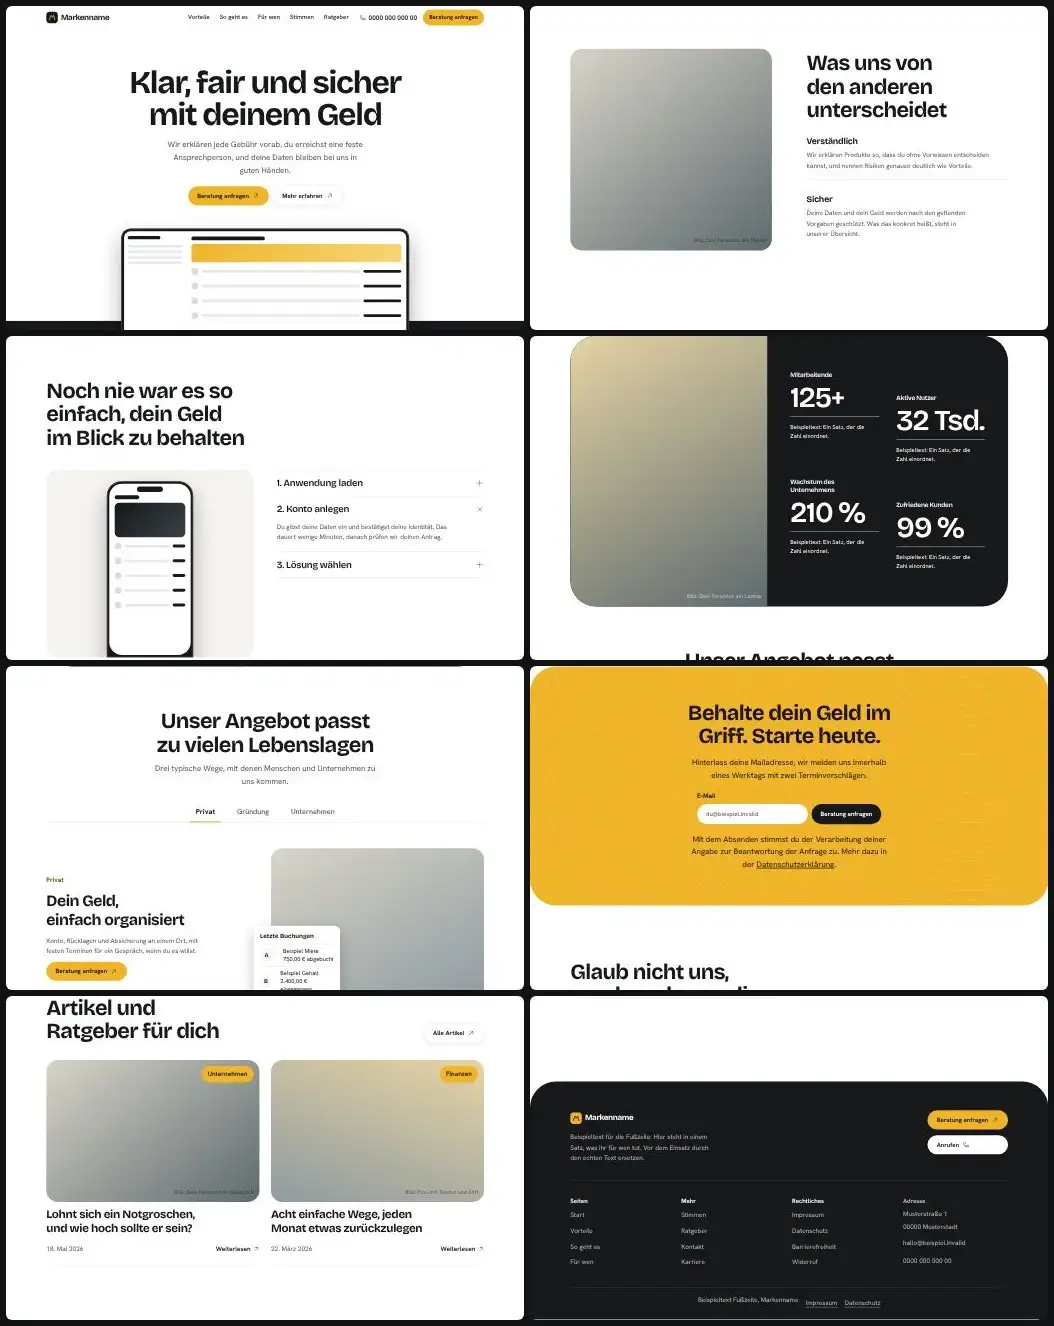
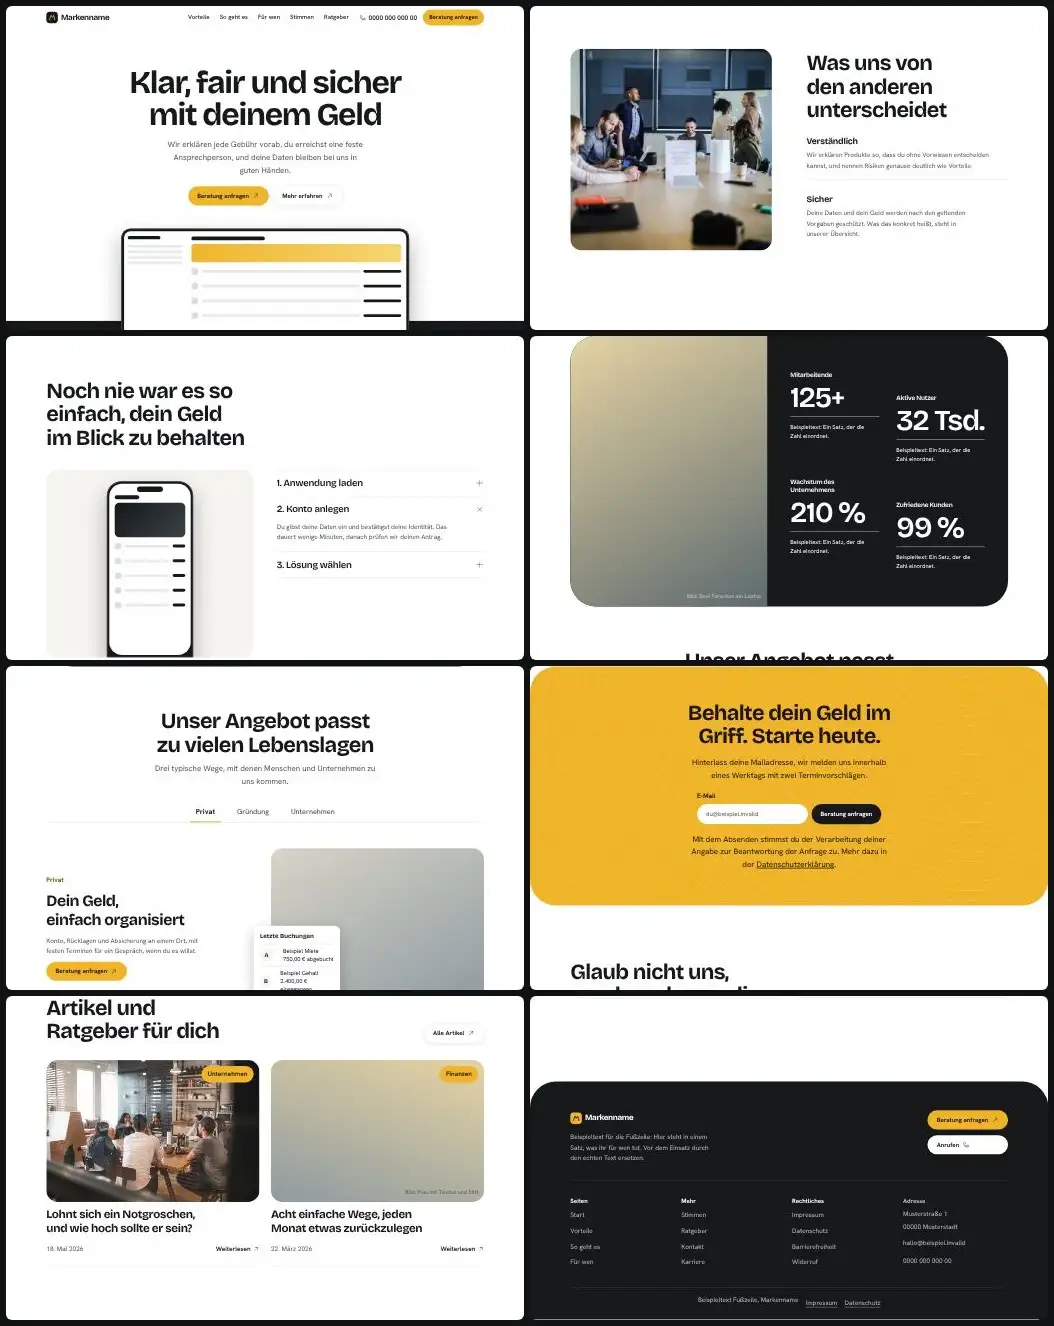
Bibliothek t53: Beispielfotos (Unsplash) eingebaut, Vorschaubilder neu erzeugt
Claude-Session: https://claude.ai/code/session_01DoGuL1bwF3ewggMgZ4Cpvd

Changed region(s): [[0.5161, 0.0309, 0.759, 0.2164], [0.0304, 0.773, 0.2429, 0.9276]]

diff --git a/skills/webdesign-conversion/assets/vorlagen/bibliothek/t53/v2.html b/skills/webdesign-conversion/assets/vorlagen/bibliothek/t53/v2.html
@@ -98,7 +98,7 @@
         <p data-zeig>Wir erklären Produkte so, dass du ohne Vorwissen entscheiden kannst, nennen Risiken genauso deutlich wie Vorteile und schützen deine Daten nach den geltenden Vorgaben.</p>
         <div class="vertrauen2" data-zeig><p>Vertraut von Unternehmen in der ganzen Region</p><div class="logoraster" data-beispiel><span class="beispiellogo logo-nordwerk" role="img" aria-label="Nordwerk (Beispiel)"></span><span class="beispiellogo logo-lichtbau" role="img" aria-label="Lichtbau (Beispiel)"></span><span class="beispiellogo logo-talgrund" role="img" aria-label="Talgrund (Beispiel)"></span><span class="beispiellogo logo-kronwerk" role="img" aria-label="Kronwerk (Beispiel)"></span><span class="beispiellogo logo-sonnenfeld" role="img" aria-label="Sonnenfeld (Beispiel)"></span><span class="beispiellogo logo-mareal" role="img" aria-label="Mareal (Beispiel)"></span></div></div>
       </div>
-      <div class="bild abgrenz2__bild" data-zeig="rechts" data-platzhalter="Bild: Drei Personen am Papier" role="img" aria-label="Platzhalter für ein Foto dreier Personen bei einer Besprechung"></div>
+      <div class="bild abgrenz2__bild" data-zeig="rechts"><img src="bilder/besprechung-am-tisch.webp" width="1600" height="1066" alt="Mehrere Personen sitzen und stehen an einem Besprechungstisch" loading="lazy" decoding="async"></div>
     </div>
   </section>
 
@@ -133,9 +133,9 @@
     <div class="wrap">
       <div class="zielgruppen__kopf" data-zeig><h2 id="h-zielgruppen">Unser Angebot passt zu vielen Lebenslagen</h2><p>Drei typische Wege, mit denen Menschen und Unternehmen zu uns kommen.</p></div>
       <div data-tafeln>
-        <article class="fall" id="f1" role="tabpanel" aria-labelledby="pk1"><div class="bild fall__bild" data-platzhalter="Bild: Berater im Gespräch" role="img" aria-label="Platzhalter für ein Foto einer beratenden Person"></div><div class="fall__karte"><span class="etikett">Privat</span><h3>Dein Geld, einfach organisiert</h3><p>Konto, Rücklagen und Absicherung an einem Ort, mit festen Terminen für ein Gespräch, wenn du es willst.</p><a class="knopf" href="#kontakt">Beratung anfragen<svg aria-hidden="true" focusable="false"><use href="#i-arrow-up-right"/></svg></a></div></article>
+        <article class="fall" id="f1" role="tabpanel" aria-labelledby="pk1"><div class="bild fall__bild"><img src="bilder/gespraech-im-cafe.webp" width="1000" height="563" alt="Gruppe im Gespräch an einem langen Tisch in hellem Raum" loading="lazy" decoding="async"></div><div class="fall__karte"><span class="etikett">Privat</span><h3>Dein Geld, einfach organisiert</h3><p>Konto, Rücklagen und Absicherung an einem Ort, mit festen Terminen für ein Gespräch, wenn du es willst.</p><a class="knopf" href="#kontakt">Beratung anfragen<svg aria-hidden="true" focusable="false"><use href="#i-arrow-up-right"/></svg></a></div></article>
         <article class="fall" id="f2" role="tabpanel" aria-labelledby="pk2"><div class="bild fall__bild" data-platzhalter="Bild: Gründer mit verschränkten Armen" role="img" aria-label="Platzhalter für ein Foto eines Gründers"></div><div class="fall__karte"><span class="etikett">Gründung</span><h3>Ein flexibler Start für dein Vorhaben</h3><p>Wir besprechen mit dir, was du für den Anfang brauchst, und zeigen dir Finanzierungswege mit ihren Bedingungen.</p><a class="knopf" href="#kontakt">Beratung anfragen<svg aria-hidden="true" focusable="false"><use href="#i-arrow-up-right"/></svg></a></div></article>
-        <article class="fall" id="f3" role="tabpanel" aria-labelledby="pk3"><div class="bild fall__bild" data-platzhalter="Bild: Team am Besprechungstisch" role="img" aria-label="Platzhalter für ein Foto eines Teams"></div><div class="fall__karte"><span class="etikett">Unternehmen</span><h3>Struktur für wachsende Betriebe</h3><p>Mehrere Konten, klare Rollen und Auswertungen, die deine Buchhaltung weiterverwenden kann.</p><a class="knopf" href="#kontakt">Beratung anfragen<svg aria-hidden="true" focusable="false"><use href="#i-arrow-up-right"/></svg></a></div></article>
+        <article class="fall" id="f3" role="tabpanel" aria-labelledby="pk3"><div class="bild fall__bild"><img src="bilder/besprechungsraum-laptops.webp" width="1600" height="1061" alt="Menschen mit Laptops an einem runden Tisch im Besprechungsraum" loading="lazy" decoding="async"></div><div class="fall__karte"><span class="etikett">Unternehmen</span><h3>Struktur für wachsende Betriebe</h3><p>Mehrere Konten, klare Rollen und Auswertungen, die deine Buchhaltung weiterverwenden kann.</p><a class="knopf" href="#kontakt">Beratung anfragen<svg aria-hidden="true" focusable="false"><use href="#i-arrow-up-right"/></svg></a></div></article>
       </div>
       <div class="punkte" role="tablist" aria-label="Zielgruppe wählen" data-reiter>
         <button type="button" role="tab" id="pk1" aria-controls="f1" aria-selected="true"><span class="sr-nur">Privat</span></button>
@@ -179,7 +179,7 @@
   <section class="sektion ratgeber" id="ratgeber" aria-labelledby="h-ratgeber" style="padding-top:0">
     <div class="wrap">
       <div class="beitraege__kopf" data-zeig><h2 id="h-ratgeber">Artikel und Ratgeber für dich</h2><a class="knopf knopf--hell" href="#ratgeber">Alle Artikel<svg aria-hidden="true" focusable="false"><use href="#i-arrow-up-right"/></svg></a></div>
-      <article class="beitrag2" data-zeig><div class="bild beitrag2__bild" data-platzhalter="Bild: Zwei Personen im Gespräch" role="img" aria-label="Platzhalter für ein Foto zweier Personen im Gespräch"></div><div class="beitrag2__text"><p class="beitrag2__meta"><span>Unternehmen</span><span>18. Mai 2026</span></p><h3>Lohnt sich ein Notgroschen, und wie hoch sollte er sein?</h3><p>Ein Beispieltext, der den Beitrag in zwei Zeilen anreißt und neugierig macht, ohne mehr zu versprechen, als der Artikel hält.</p><a class="weiterlink" href="#ratgeber">Weiterlesen<svg aria-hidden="true" focusable="false"><use href="#i-arrow-up-right"/></svg></a></div></article>
+      <article class="beitrag2" data-zeig><div class="bild beitrag2__bild"><img src="bilder/gespraech-im-cafe.webp" width="1000" height="563" alt="Gruppe im Gespräch an einem langen Tisch in hellem Raum" loading="lazy" decoding="async"></div><div class="beitrag2__text"><p class="beitrag2__meta"><span>Unternehmen</span><span>18. Mai 2026</span></p><h3>Lohnt sich ein Notgroschen, und wie hoch sollte er sein?</h3><p>Ein Beispieltext, der den Beitrag in zwei Zeilen anreißt und neugierig macht, ohne mehr zu versprechen, als der Artikel hält.</p><a class="weiterlink" href="#ratgeber">Weiterlesen<svg aria-hidden="true" focusable="false"><use href="#i-arrow-up-right"/></svg></a></div></article>
     </div>
   </section>
 </main>

diff --git a/skills/webdesign-conversion/assets/vorlagen/bibliothek/t53/index.html b/skills/webdesign-conversion/assets/vorlagen/bibliothek/t53/index.html
@@ -86,7 +86,7 @@
   <!-- 3. Abgrenzung: Bild links, zwei Aussagen rechts -->
   <section class="sektion abgrenzung" id="vorteile" aria-labelledby="h-abgrenzung">
     <div class="wrap abgrenzung__raster">
-      <div class="bild abgrenzung__bild" data-zeig="links" data-platzhalter="Bild: Drei Personen am Papier" role="img" aria-label="Platzhalter für ein Foto dreier Personen bei einer Besprechung"></div>
+      <div class="bild abgrenzung__bild" data-zeig="links"><img src="bilder/besprechung-am-tisch.webp" width="1600" height="1066" alt="Mehrere Personen sitzen und stehen an einem Besprechungstisch" loading="lazy" decoding="async"></div>
       <div class="abgrenzung__text" data-staffel>
         <h2 id="h-abgrenzung" data-zeig>Was uns von den anderen unterscheidet</h2>
         <div class="aussage" data-zeig><h3>Verständlich</h3><p>Wir erklären Produkte so, dass du ohne Vorwissen entscheiden kannst, und nennen Risiken genauso deutlich wie Vorteile.</p></div>
@@ -163,7 +163,7 @@
       <div data-tafeln>
         <article class="tafel" id="p1" role="tabpanel" aria-labelledby="z1"><div class="tafel__text"><span class="etikett">Privat</span><h3>Dein Geld, einfach organisiert</h3><p>Konto, Rücklagen und Absicherung an einem Ort, mit festen Terminen für ein Gespräch, wenn du es willst.</p><a class="knopf" href="#kontakt">Beratung anfragen<svg aria-hidden="true" focusable="false"><use href="#i-arrow-up-right"/></svg></a></div><div class="tafel__bild"><div class="bild" data-platzhalter="Bild: Frau am Telefon im Büro" role="img" aria-label="Platzhalter für ein Foto einer telefonierenden Frau"></div><div class="schwebe" data-beispiel><strong>Letzte Buchungen</strong><div class="posten"><b>A</b><p>Beispiel Miete<br>750,00 € abgebucht</p></div><div class="posten"><b>B</b><p>Beispiel Gehalt<br>2.400,00 € eingegangen</p></div></div></div></article>
         <article class="tafel" id="p2" role="tabpanel" aria-labelledby="z2"><div class="tafel__text"><span class="etikett">Gründung</span><h3>Ein flexibler Start für dein Vorhaben</h3><p>Wir besprechen mit dir, was du für den Anfang brauchst, und zeigen dir Finanzierungswege mit ihren Bedingungen.</p><a class="knopf" href="#kontakt">Beratung anfragen<svg aria-hidden="true" focusable="false"><use href="#i-arrow-up-right"/></svg></a></div><div class="tafel__bild"><div class="bild" data-platzhalter="Bild: Gründer im Büro, lächelnd" role="img" aria-label="Platzhalter für ein Foto eines Gründers im Büro"></div><div class="schwebe" data-beispiel><strong>Letzte Überweisungen</strong><div class="posten"><b>A</b><p>Beispiel Werbung<br>1.408,59 € abgebucht</p></div><div class="posten"><b>B</b><p>Beispiel Zahlung<br>2.512,00 € abgebucht</p></div></div></div></article>
-        <article class="tafel" id="p3" role="tabpanel" aria-labelledby="z3"><div class="tafel__text"><span class="etikett">Unternehmen</span><h3>Struktur für wachsende Betriebe</h3><p>Mehrere Konten, klare Rollen und Auswertungen, die deine Buchhaltung weiterverwenden kann.</p><a class="knopf" href="#kontakt">Beratung anfragen<svg aria-hidden="true" focusable="false"><use href="#i-arrow-up-right"/></svg></a></div><div class="tafel__bild"><div class="bild" data-platzhalter="Bild: Team am Besprechungstisch" role="img" aria-label="Platzhalter für ein Foto eines Teams am Besprechungstisch"></div><div class="schwebe" data-beispiel><strong>Rollen</strong><div class="posten"><b>A</b><p>Beispiel Buchhaltung<br>Lesen</p></div><div class="posten"><b>B</b><p>Beispiel Leitung<br>Freigeben</p></div></div></div></article>
+        <article class="tafel" id="p3" role="tabpanel" aria-labelledby="z3"><div class="tafel__text"><span class="etikett">Unternehmen</span><h3>Struktur für wachsende Betriebe</h3><p>Mehrere Konten, klare Rollen und Auswertungen, die deine Buchhaltung weiterverwenden kann.</p><a class="knopf" href="#kontakt">Beratung anfragen<svg aria-hidden="true" focusable="false"><use href="#i-arrow-up-right"/></svg></a></div><div class="tafel__bild"><div class="bild"><img src="bilder/besprechungsraum-laptops.webp" width="1600" height="1061" alt="Menschen mit Laptops an einem runden Tisch im Besprechungsraum" loading="lazy" decoding="async"></div><div class="schwebe" data-beispiel><strong>Rollen</strong><div class="posten"><b>A</b><p>Beispiel Buchhaltung<br>Lesen</p></div><div class="posten"><b>B</b><p>Beispiel Leitung<br>Freigeben</p></div></div></div></article>
       </div>
     </div>
   </section>
@@ -199,7 +199,7 @@
     <div class="wrap">
       <div class="beitraege__kopf" data-zeig><h2 id="h-ratgeber">Artikel und Ratgeber für dich</h2><a class="knopf knopf--hell" href="#ratgeber">Alle Artikel<svg aria-hidden="true" focusable="false"><use href="#i-arrow-up-right"/></svg></a></div>
       <div class="beitraege" data-staffel>
-        <article class="beitrag" data-zeig><div class="bild beitrag__bild" data-platzhalter="Bild: Zwei Personen im Gespräch" role="img" aria-label="Platzhalter für ein Foto zweier Personen im Gespräch"><span class="beitrag__marke">Unternehmen</span></div><h3>Lohnt sich ein Notgroschen, und wie hoch sollte er sein?</h3><div class="beitrag__fuss"><span>18. Mai 2026</span><a class="weiterlink" href="#ratgeber">Weiterlesen<svg aria-hidden="true" focusable="false"><use href="#i-arrow-up-right"/></svg></a></div></article>
+        <article class="beitrag" data-zeig><div class="bild beitrag__bild"><img src="bilder/gespraech-im-cafe.webp" width="1000" height="563" alt="Gruppe im Gespräch an einem langen Tisch in hellem Raum" loading="lazy" decoding="async"><span class="beitrag__marke">Unternehmen</span></div><h3>Lohnt sich ein Notgroschen, und wie hoch sollte er sein?</h3><div class="beitrag__fuss"><span>18. Mai 2026</span><a class="weiterlink" href="#ratgeber">Weiterlesen<svg aria-hidden="true" focusable="false"><use href="#i-arrow-up-right"/></svg></a></div></article>
         <article class="beitrag" data-zeig><div class="bild beitrag__bild" data-platzhalter="Bild: Frau mit Telefon und Stift" role="img" aria-label="Platzhalter für ein Foto einer Frau mit Telefon"><span class="beitrag__marke">Finanzen</span></div><h3>Acht einfache Wege, jeden Monat etwas zurückzulegen</h3><div class="beitrag__fuss"><span>22. März 2026</span><a class="weiterlink" href="#ratgeber">Weiterlesen<svg aria-hidden="true" focusable="false"><use href="#i-arrow-up-right"/></svg></a></div></article>
       </div>
     </div>

diff --git a/skills/webdesign-conversion/assets/vorlagen/bibliothek/t53/BILDER.md b/skills/webdesign-conversion/assets/vorlagen/bibliothek/t53/BILDER.md
@@ -1,0 +1,19 @@
+# Bilder t53
+
+Alle Fotos von Unsplash, abgerufen am 25.11.2026. Titel und Lizenz stehen so auf der Seite des Fotos (Titel von Unsplash automatisch vergeben), als Fotograf ist das Unsplash Profil angegeben, weil die Seite den Namen nur als Profillink zeigte. Lizenz ist jeweils die Unsplash Lizenz.
+
+| Datei | Platz | Foto Titel | Fotograf (Profil) | Seite | Lizenz | Abruf |
+|---|---|---|---|---|---|---|
+| besprechung-am-tisch.webp.webp | index: Abgrenzung; v2: Abgrenzung | Menschen, die am Tisch sitzen | heymemento | https://unsplash.com/photos/2pPw5Glro5I | Unsplash Lizenz | 25.11.2026 |
+| besprechungsraum-laptops.webp.webp | index: Besprechungstisch; v2: Fall 3 | Menschen, die mit einem Laptop in der Nähe eines Tisches sitzen | campaign_creators | https://unsplash.com/photos/qCi_MzVODoU | Unsplash Lizenz | 25.11.2026 |
+| gespraech-im-cafe.webp.webp | index: Beitrag 1; v2: Fall 1, Beitrag | people sitting on chair | reddfrancisco | https://unsplash.com/photos/5U_28ojjgms | Unsplash Lizenz | 25.11.2026 |
+
+## Hinweise
+
+* Nur Atmosphäre: Personen sind keine echten Kunden oder Berater, keine Erfolgs oder Renditeaussage.
+* Dieselben drei Dateien erscheinen in index und v2 mehrfach.
+
+## Offen
+
+* index: Zwei Personen am Laptop, Frau am Telefon, Gründer lächelnd, drei Porträts, Frau mit Telefon und Stift
+* v2: Mann mit Laptop im Sessel, Gründer mit verschränkten Armen
